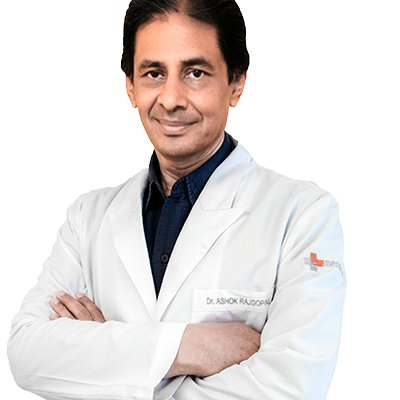
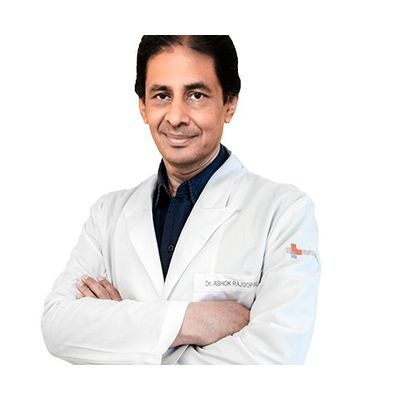
Fix Dr Ashok Rajgopal photo crop cutting off head

diff --git a/top-orthopedics/index.html b/top-orthopedics/index.html
@@ -536,7 +536,7 @@ j=d.createElement(s),dl=l!='dataLayer'?'&l='+l:'';j.async=true;j.src=
 <!-- Specialist Card 13 -->
 <div class="flex flex-col bg-surface-container-lowest rounded-2xl shadow-md overflow-hidden border border-outline-variant hover:shadow-xl transition-all duration-300">
 <div class="relative pt-6 pb-5 px-4 flex flex-col items-center bg-gradient-to-b from-primary to-tertiary">
-<div class="relative z-10 rounded-[9999px] p-1 bg-white/10 backdrop-blur-sm shadow-lg mb-3 border border-white/20"><img alt="Dr Ashok Rajgopal" class="w-20 h-20 md:w-24 md:h-24 rounded-[9999px] object-cover object-top border-4 border-surface-container-lowest" src="images/dr-ashok-rajgopal.jpg"></div>
+<div class="relative z-10 rounded-[9999px] p-1 bg-white/10 backdrop-blur-sm shadow-lg mb-3 border border-white/20"><img alt="Dr Ashok Rajgopal" class="w-20 h-20 md:w-24 md:h-24 rounded-[9999px] object-cover border-4 border-surface-container-lowest" src="images/dr-ashok-rajgopal.jpg"></div>
 <span class="inline-block bg-white/10 text-white font-label-md text-[10px] md:text-xs uppercase tracking-wider px-3 py-1 rounded-full border border-white/20 text-center whitespace-nowrap">Orthopedic Surgeon</span>
 </div>
 <div class="px-3 md:px-4 pt-3 pb-3 md:pb-4 flex-1 flex flex-col items-center text-center">
